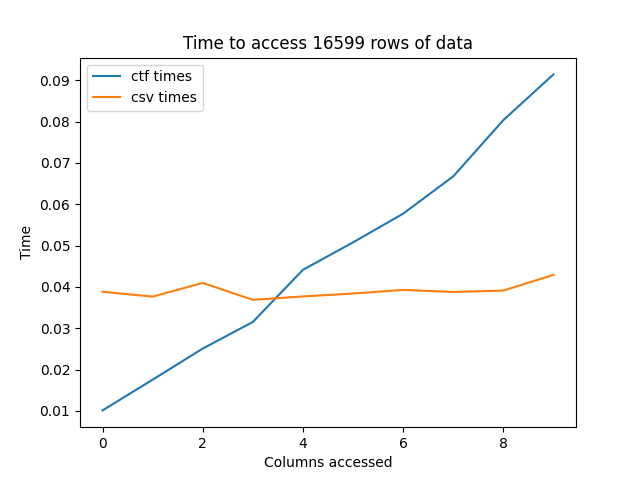
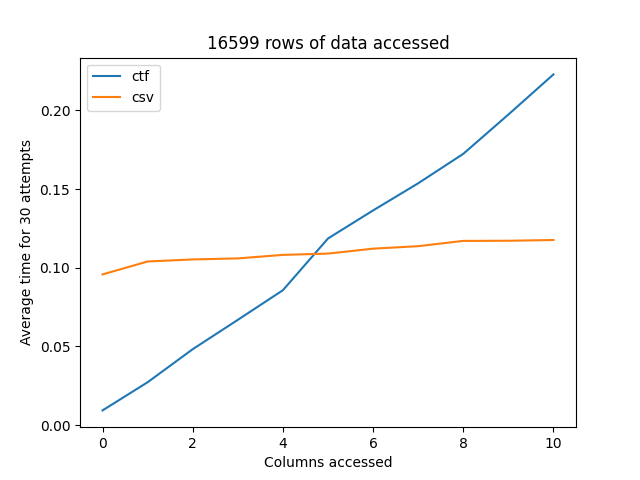
Updated the speed test to use average times

diff --git a/examples_of_ctf_vs_csv/example_speed_increase/speedTest.py b/examples_of_ctf_vs_csv/example_speed_increase/speedTest.py
@@ -5,52 +5,124 @@ import csv
 
 from column_text_format import reader
 
-def read_through_column(col):
-    for item in col:
+def try_conversion(x):
+    try:
+        x = int(x)
+    except:
         pass
+    return x
 
-with open('vgsales.csv') as f:
-    total_lines = sum(1 for line in f)
+ctf_file = 'vgsales'
+csv_file = 'vgsales.csv'
+attempts = 30
+ctf_function = lambda x : x
+csv_function = try_conversion
 
-# get ctf access times
-ctf_times = []
 
-open_start = time.time()
-vgsales = reader.Reader("vgsales")
-vgsales.read_metadata()
-open_end = time.time()
-open_time = open_end - open_start
-for i in range(1, len(vgsales.columns)):
-    start = time.time()
-    for col in vgsales.columns[0:i]:
-        read_through_column(vgsales[col])
-    end = time.time()
-    ctf_times.append(end-start + open_time)
+def test_columns_ctf(ctf_file, function = lambda x : x):
+    '''
+    This will run on a given ctf file and return an array of n values each corresponding to the time needed to access n columns. It will run function on each item in each column/row.
+    '''
 
-# get csv times
-row_len = 0
-csv_times = []
-with open('vgsales.csv') as csv_file:
-    reader = csv.reader(csv_file)
-    x = iter(reader)
-    row_len = len(next(x))
+    # get ctf access times
+    ctf_times = []
 
-for i in range(1, row_len):
-    start = time.time()
-    with open('vgsales.csv') as csv_file:
+    open_start = time.time()
+    vgsales = reader.Reader(ctf_file)
+    vgsales.read_metadata()
+    open_end = time.time()
+    open_time = open_end - open_start
+    for i in range(0, len(vgsales.columns) + 1):
+        start = time.time()
+        for col in vgsales.columns[0:i]:
+            for item in vgsales[col]:
+                function(item)
+        end = time.time()
+        ctf_times.append(end-start + open_time)
+    return ctf_times
+
+
+def test_columns_csv(csv_file, function = lambda x : x):
+    '''
+    This will run on a given csv file and return an array of n values each corresponding to the time needed to access n columns. It will run function on each item in each column/row.
+    '''
+    # get csv times
+    row_len = 0
+    csv_times = []
+    with open(csv_file) as csv_file:
         reader = csv.reader(csv_file)
-        for row in reader:
-            x = row[0:i]
-            pass
-    end = time.time()
-    csv_times.append(end-start)
+        x = iter(reader)
+        row_len = len(next(x))
 
-# Plot the times figure
-fig = plt.figure()
-plt.title("Time to access " + str(total_lines) + " rows of data")
-plt.xlabel("Columns accessed")
-plt.ylabel("Time")
-plt.plot(ctf_times, label='ctf times')
-plt.plot(csv_times, label='csv times')
-plt.legend()
-fig.savefig('csv_ctf_access_times.png')
+    # Runs increasingly to test columns
+    for columns_to_test in range(0, row_len+1):
+        start = time.time()
+        with open('vgsales.csv') as csv_file:
+            reader = csv.reader(csv_file)
+            # Runs on each row from the file
+            for row in reader:
+                # Loops through n times to test each row item and execute function on them
+                for index in range(0,columns_to_test):
+                    row_item = row[index]
+                    # Logic for converting first row to int
+                    if (index==0):
+                        function(row_item)
+                    else:
+                        pass
+        end = time.time()
+        csv_times.append(end-start)
+    return csv_times
+
+def print_lines(dict_of_lines):
+    '''
+    Accepts a dict of lines and graphs them using key as the label and value as the array of time values
+    '''
+    # Get the total number of rows for the header
+    with open(csv_file) as f:
+        total_rows = sum(1 for line in f)
+
+    # Plot the times figure
+    fig = plt.figure()
+    # Setup labels
+    plt.title(str(total_rows) + " rows of data accessed")
+    plt.xlabel("Columns accessed")
+    plt.ylabel("Average time for " + str(attempts) + " attempts")
+    for key in dict_of_lines:
+        plt.plot(dict_of_lines[key], label=key)
+    plt.legend()
+    fig.savefig('csv_ctf_access_times.png')
+
+def average_attempts_array(attempts_array):
+    '''
+    Takes a two dimensional array of attempts and returns a one dimensional array with the averages
+    '''
+    average_array = []
+    length_of_attempt = len(attempts_array[0])
+    for index in range(0, length_of_attempt -1 ):
+        average = 0
+        for attempt in attempts_array:
+            average += attempt[index]
+        average_array.append(average / length_of_attempt)
+    return average_array
+
+def get_average_times():
+    '''
+    Runs n attemps and returns a dictionary containing the averages for ctf and csv
+    '''
+    ctf_attempts = []
+    for attempt in range(0, attempts):
+        ctf_attempts.append(test_columns_ctf(ctf_file, ctf_function))
+
+    csv_attempts = []
+    for attempt in range(0, attempts):
+        csv_attempts.append(test_columns_csv(csv_file, csv_function))
+
+    times_dict = {
+        'ctf': average_attempts_array(ctf_attempts),
+        'csv': average_attempts_array(csv_attempts),
+    }
+    return times_dict
+
+# Runs the logic
+print_lines(get_average_times())
+

diff --git a/examples_of_ctf_vs_csv/example_speed_increase/speed_test_doc.md b/examples_of_ctf_vs_csv/example_speed_increase/speed_test_doc.md
@@ -1,0 +1,2 @@
+## Goal
+This test should be able to compare the average speed of CTF read vs CSV read based on how many columns are being accessed. It should run n times, n being the total number of columns in the file. It should start with checking the time to access a single column, then the next run should check two column, increasing until the last run checks all columns. It should have a configurable function that can be passed in that will be used on the data, this needs to be very similar but not the same for CTF and CSV. This can help normalize the extra time used to convert data types in CTF that isn't used in CSV.
